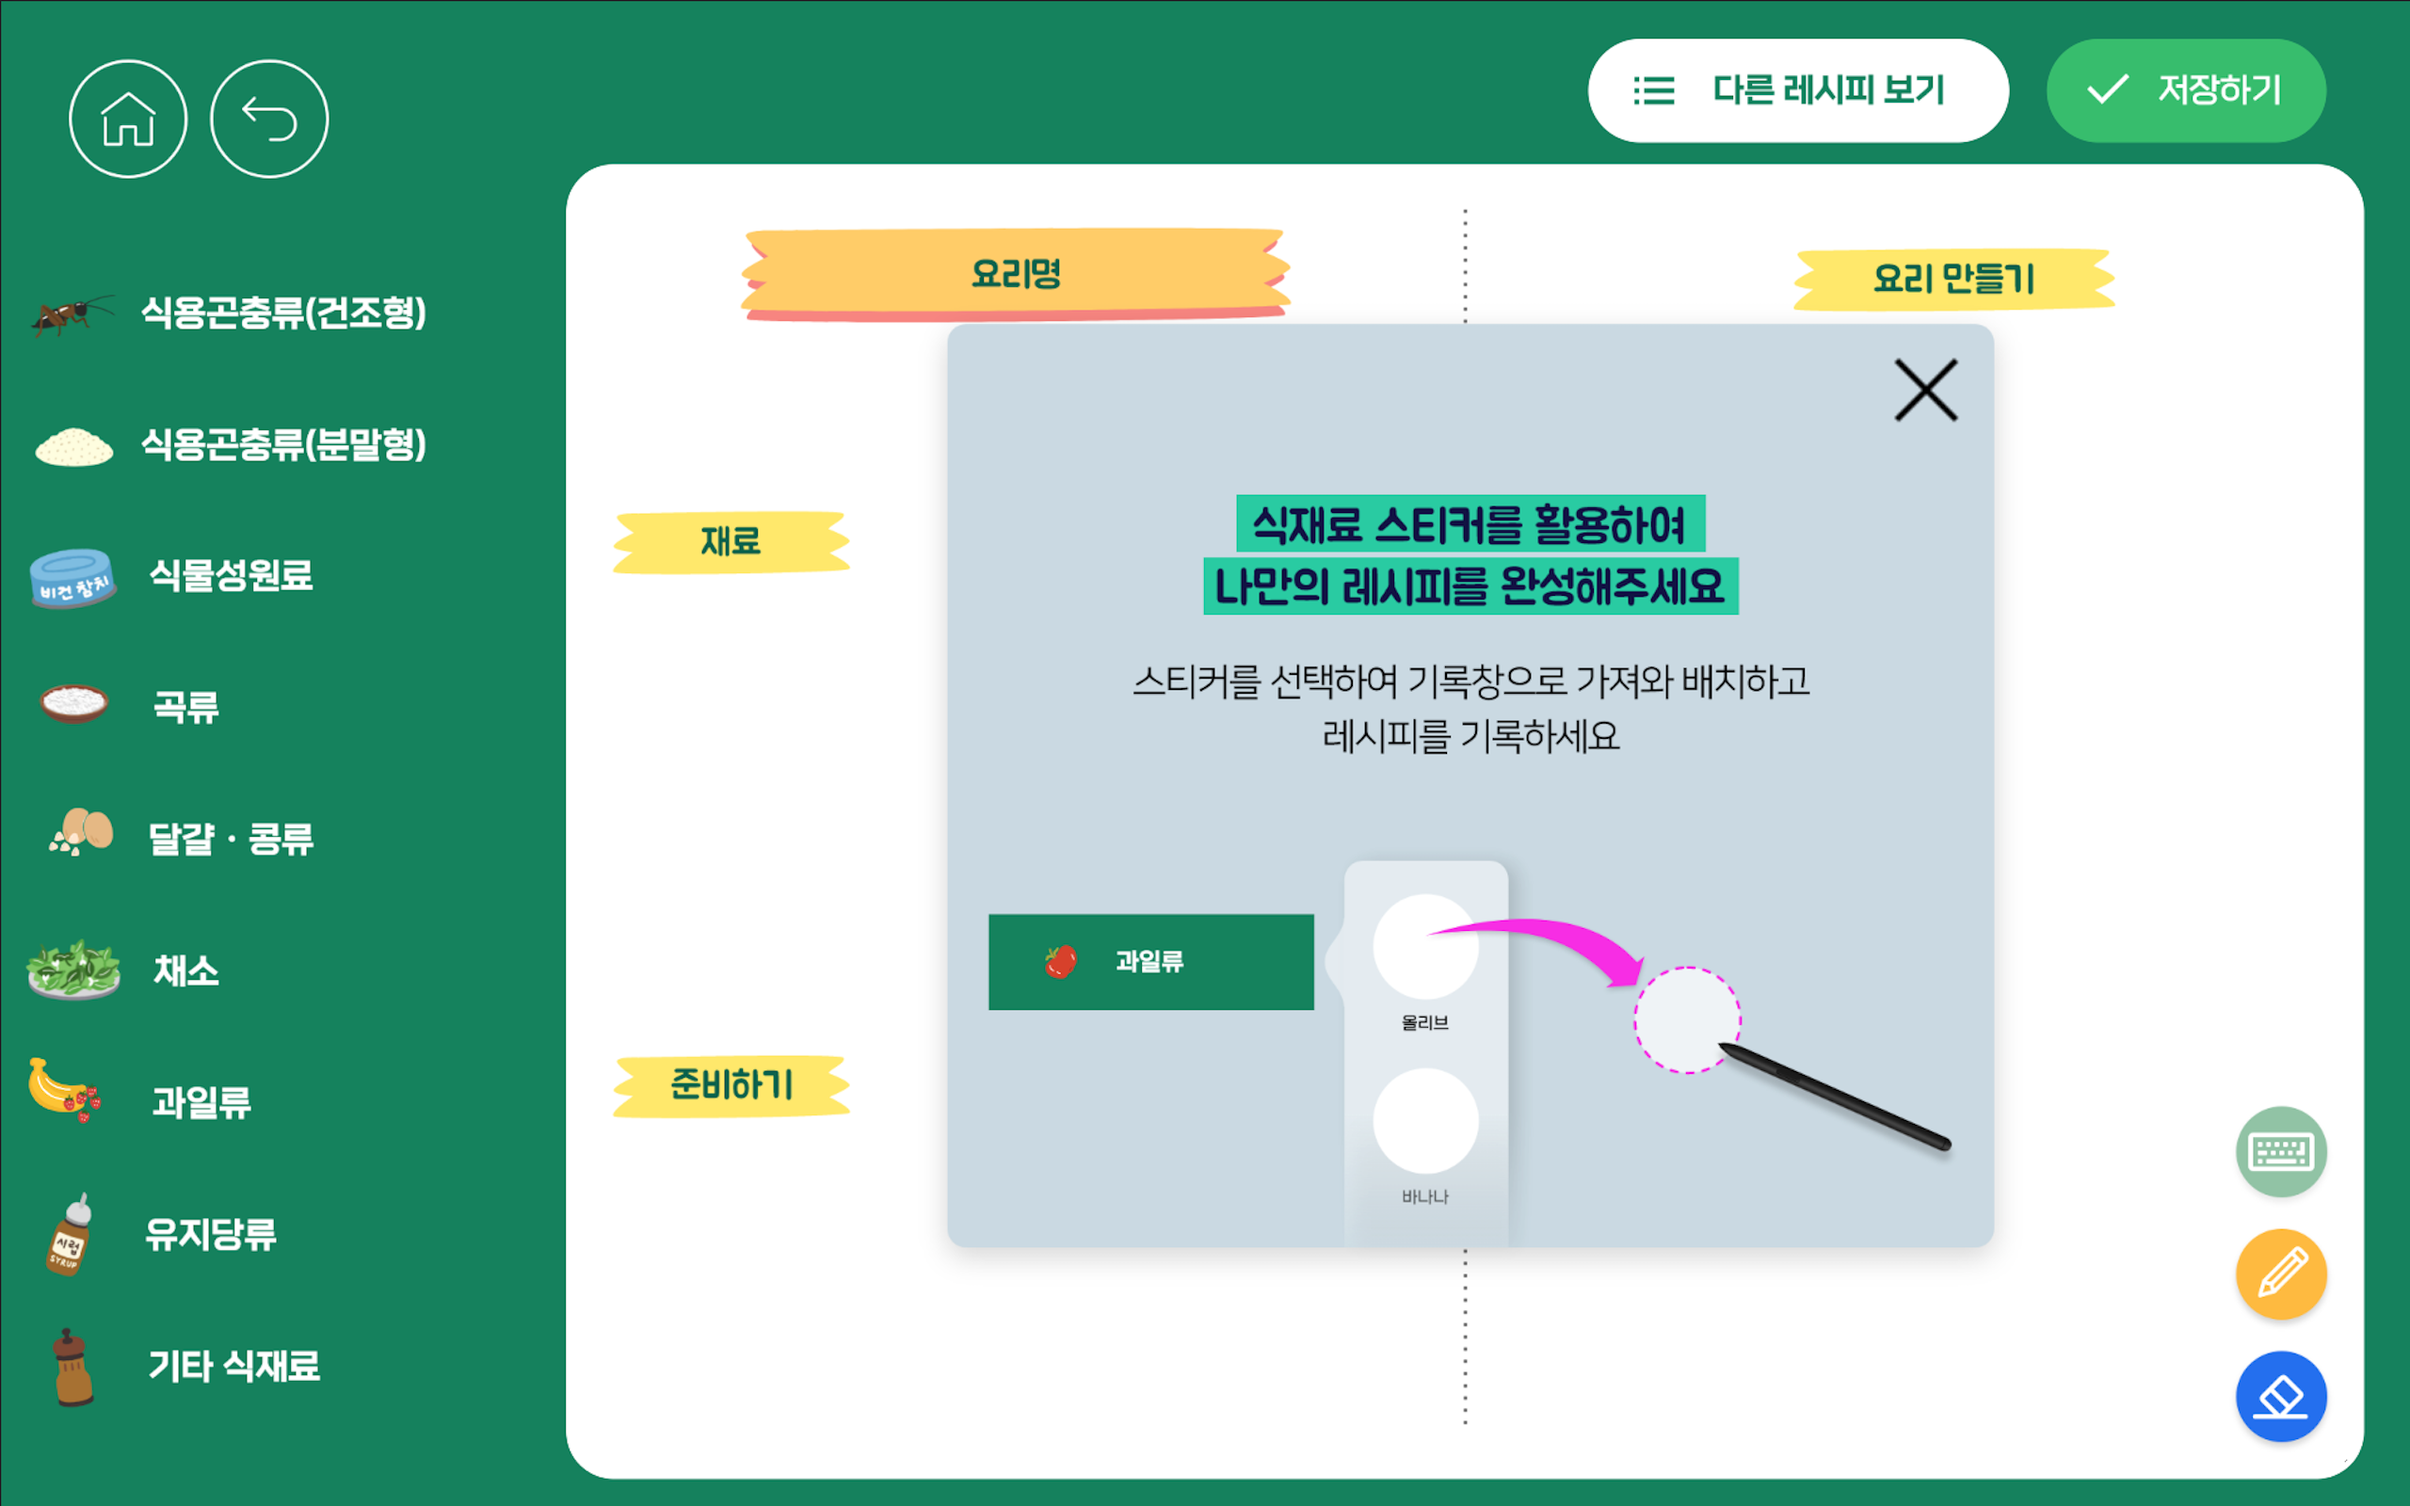
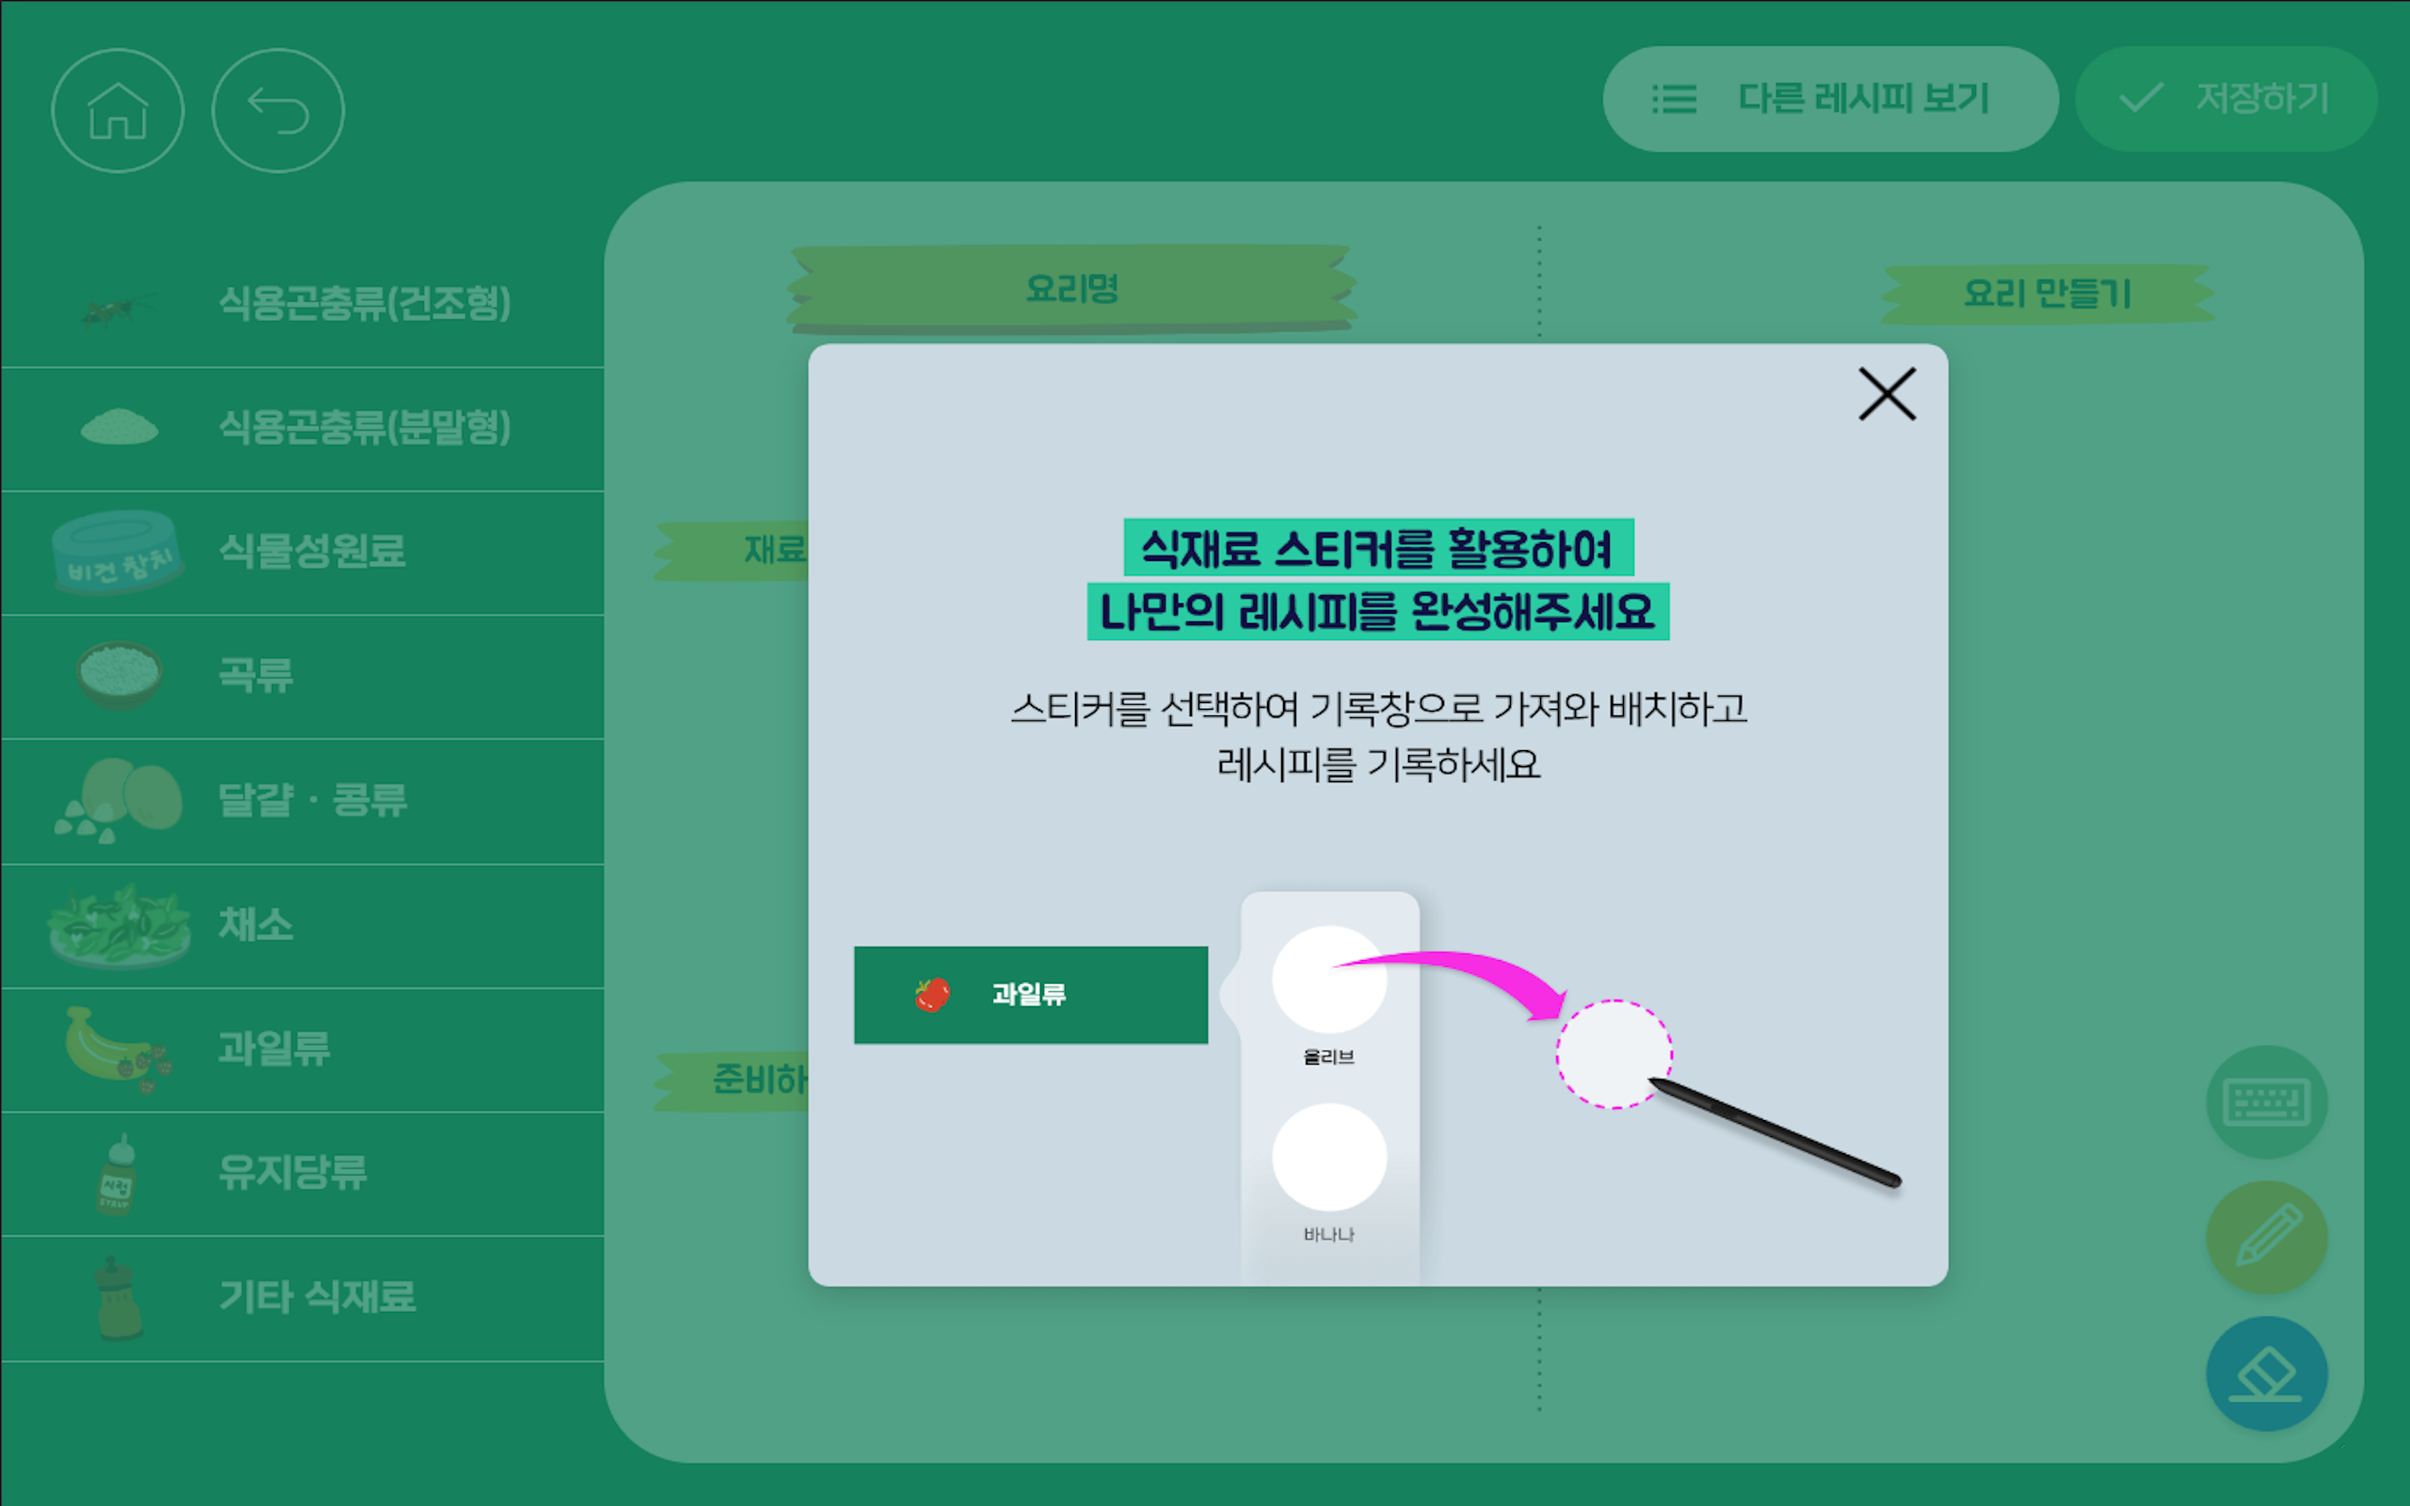
commit

diff --git a/src/pages/draw/draw.ts b/src/pages/draw/draw.ts
@@ -87,14 +87,13 @@ export class DrawPage {
 
     /* 현재 항목이 드래고 되고 있을 때 호출된다. */
     try {
-      this.dragulaService.drag('bag').subscribe(({ name, el, source }) => {
+      this.dragulaService.drag('bag').subscribe(async ({ name, el, source }) => {
         el.setAttribute('color', 'danger');
         console.log("asdasd");
       });
 
       this.dragulaService.dragend('bag').subscribe(({el}) =>{
         console.log("zxczxc");
-
       })
 
       this.dragulaService.removeModel('bag').subscribe(({ item }) => {
@@ -102,10 +101,9 @@ export class DrawPage {
           message: 'Removed: ' + item.value,
           duration: 2000
         })
-        // .then(toast => toast.present());
       });
 
-        this.dropSub = this.dragulaService.dropModel('bag').subscribe(({ item, el }) => {
+      this.dropSub = this.dragulaService.dropModel('bag').subscribe(({ item, el }) => {
         console.log("qweqwe");
         console.log(item);
         console.log(el);
@@ -302,11 +300,29 @@ export class DrawPage {
     this.initWhiteBoardReadyCanvas();
     this.initWhiteBoardCookingCanvas();
     this.food_name_url = this.navParams.get("food_name_url");
+
+
+    // this.keyboard.willShow.subscribe(()=>{
+    //   console.log("willshow");
+    //   document.getElementById("keyboard-bg").style.display = "";
+    // })
+    // this.keyboard.willHide.subscribe(()=>{
+    //   console.log("willhide");
+    //   document.getElementById("keyboard-bg").style.display = "none";
+    // })
+    // this.keyboard.didShow.subscribe(()=>{
+    //   console.log("didshow");
+    // })
+    // this.keyboard.didHide.subscribe(()=>{
+    //   console.log("didhide");
+    // })
     addEventListener('keyboardWillShow', () => {
-
+      console.log("willshow");
+      document.getElementById("keyboard-bg").style.display = "";
     });
-    addEventListener('onKeyboardWillHide',()=>{
-
+    addEventListener('keyboardWillHide',()=>{
+      console.log("willhide");
+      document.getElementById("keyboard-bg").style.display = "none";
     });
   }
 
@@ -314,17 +330,23 @@ export class DrawPage {
   {
     console.log("keypad");
     var doc = document.getElementById("white-board-cooking-textarea-board").style.zIndex;
+
     document.getElementById("white-board-cooking-textarea-board").style.zIndex =
     doc == '8' ? '0' : '8';
 
-    if(doc == '8')
+    document.getElementById("white-board-ready-textarea-board").style.zIndex =
+    doc == '8' ? '0' : '8';
+
+    if(doc == '8') // 키보드 비활성화
     {
       document.getElementById("bnt-keypad-nor").style.opacity = '0.5';
+      // document.getElementById("keyboard-bg").style.display = "none";
     }
-    else
+    else // 키보드 활성화
     {
       document.getElementById("bnt-keypad-nor").style.opacity = '1';
-      document.getElementById("white-board-cooking-textarea").focus();
+      // document.getElementById("white-board-cooking-textarea").focus();
+      // document.getElementById("keyboard-bg").style.display = "";
     }
     // this.keyboard.hasFocusedTextInput();
     document.getElementById("pen-control-bar").style.display = 'none';
@@ -332,6 +354,10 @@ export class DrawPage {
   }
   open_pen()
   {
+    document.getElementById("white-board-ready-textarea-board").style.zIndex = '0';
+    document.getElementById("white-board-cooking-textarea-board").style.zIndex = '0';
+    document.getElementById("bnt-keypad-nor").style.opacity = '0.5';
+
     console.log("pen");
     document.getElementById("pen-control-bar").style.display = 'none';
 
@@ -343,6 +369,10 @@ export class DrawPage {
   }
   open_eraser()
   {
+    document.getElementById("white-board-ready-textarea-board").style.zIndex = '0';
+    document.getElementById("white-board-cooking-textarea-board").style.zIndex = '0';
+    document.getElementById("bnt-keypad-nor").style.opacity = '0.5';
+
     console.log("eraser");
     document.getElementById("pen-col-bg").style.display = 'none';
 
@@ -540,8 +570,10 @@ export class DrawPage {
     // let guidePopupDiv = document.getElementById("guide-popup-div");
     // guidePopupDiv.style.display = "none"
     let guidePopup = document.getElementById("guide-popup");
+    let guidePopupBg = document.getElementById("guide-popup-bg");
     let guidePopupClose = document.getElementById("guide-popup-close");
     guidePopup.style.display = "none";
+    guidePopupBg.style.display = "none";
     guidePopupClose.style.display = "none";
   }
 

diff --git a/src/pages/draw/draw.scss b/src/pages/draw/draw.scss
@@ -1,7 +1,7 @@
 page-draw {
 
   .content {background: #0E8D66 0% 0% no-repeat padding-box;}
-  .scroll-content{overflow: hidden;}
+  .scroll-content{}
 
   .home-back-div
   {
@@ -83,6 +83,8 @@ page-draw {
       // opacity: 0.8;
       left: 10%;
       width: 90%;
+      background-color: white;
+      border-radius: 30px;
     }
 
     .food-popup-div
@@ -121,6 +123,18 @@ page-draw {
         // border: 3px solid #000000;
         opacity: 1;
     }
+  }
+
+  .guide-popup-bg
+  {
+    background-color: #0E8D66;
+    opacity: 0.75;
+    position: absolute;
+    top: 0;
+    left: 0;
+    width: 100%;
+    height: 100%;
+    z-index: 10;
   }
 
   .white-board
@@ -197,7 +211,7 @@ page-draw {
     .white-board-ready {
       position: absolute;
       background-color: transparent;
-      z-index: 8;
+      z-index: 7;
       top: 73%;
       left: 1%;
       width: 51%;
@@ -227,6 +241,26 @@ page-draw {
       font-size: 180%;
 
       .white-board-cooking-textarea
+      {
+        width: 100%;
+        height: 100%;
+        border: none;
+        background-color: transparent;
+      }
+    }
+
+    .white-board-ready-textarea-board {
+      position: absolute;
+      background-color: transparent;
+      z-index: 0;
+      top: 73%;
+      left: 1%;
+      width: 51%;
+      height: 26%;
+      border-bottom-left-radius: 50px;
+      font-size: 180%;
+
+      .white-board-ready-textarea
       {
         width: 100%;
         height: 100%;
@@ -484,5 +518,13 @@ page-draw {
         }
       }
     }
+  }
+  .keyboard-bg
+  {
+    position: absolute;
+    top: 100%;
+    left: 0;
+    width: 100%;
+    height: 50%;
   }
 }

diff --git a/src/pages/receipt/receipt.ts b/src/pages/receipt/receipt.ts
@@ -1,5 +1,6 @@
 import { Component } from '@angular/core';
 import { IonicPage, ModalCmp, ModalController, NavController, NavParams } from 'ionic-angular';
+import { Animation, AnimationController } from '@ionic/angular';
 import { DrawPage } from '../draw/draw';
 import { HomePage } from '../home/home';
 import * as $ from "jquery";
@@ -35,7 +36,7 @@ export class ReceiptPage {
   // 2 : 레시피 아이콘
   receipts_positions = []
 
-  constructor(public navCtrl: NavController, public navParams: NavParams, public modalCtrl: ModalController,
+  constructor(public animationCtrl: AnimationController, public navCtrl: NavController, public navParams: NavParams, public modalCtrl: ModalController,
   public recpv: ReceiptsProvider) {
     this.index = this.navParams.get("index");
     if(!this.index) this.index = 1;
@@ -93,6 +94,12 @@ export class ReceiptPage {
   ionViewDidLoad() {
     console.log('ionViewDidLoad ReceiptPage');
     $('#content').load("src/pages/home/home.html");
+
+    this.animationCtrl.create()
+    .addElement(document.getElementById("induction-arrow"))
+    .duration(1500)
+    .iterations(Infinity)
+    .fromTo('transform', 'translateX(-200%)', 'translateX(-100%)');
 
     this.recipe_bar = document.getElementById('recipe_bar');
     this.recipe_bar.addEventListener('touchmove', this.onTouchMove);

diff --git a/src/pages/draw/draw.html b/src/pages/draw/draw.html
@@ -46,6 +46,8 @@
     </div>
   </div> -->
 
+  <div id="guide-popup-bg" class="guide-popup-bg"></div>
+
   <div id="white-board" class="white-board">
 
     <img id="guide-popup" class="guide-popup" src="assets/imgs/대체식품/03_Planning/00_basic btn/Guide_Popup.png" alt="">
@@ -69,6 +71,9 @@
     <!-- 요리 만들기 -->
 
     <!-- textarea -->
+    <div id="white-board-ready-textarea-board" class="white-board-ready-textarea-board">
+      <textarea id="white-board-ready-textarea" class="white-board-ready-textarea" cols="50" rows="10"></textarea>
+    </div>
     <div id="white-board-cooking-textarea-board" class="white-board-cooking-textarea-board">
       <textarea id="white-board-cooking-textarea" class="white-board-cooking-textarea" cols="50" rows="10"></textarea>
     </div>
@@ -130,4 +135,6 @@
       </ion-slide>
     </ion-slides>
   </div>
+
+  <div id="keyboard-bg" class="keyboard-bg" style="display: none;"></div>
 </ion-content>

diff --git a/src/pages/receipt/receipt.html b/src/pages/receipt/receipt.html
@@ -60,7 +60,7 @@
   </div>
 
   <div id="recipe_bar" class="receipt_bar_div">
-    <img class="induction-arrow" src="../../assets/imgs/대체식품/추가 UI/slide indicator.png" alt="">
+    <img id="induction-arrow" class="induction-arrow" src="../../assets/imgs/대체식품/추가 UI/slide indicator.png" alt="">
     <img class="recipe_bar" src="{{root_image_path}}00_btn/Recipe Bar.png" alt="">
     <div id="modal_page">
       <img src="assets/imgs/대체식품/drawpage_default.png" alt="">
